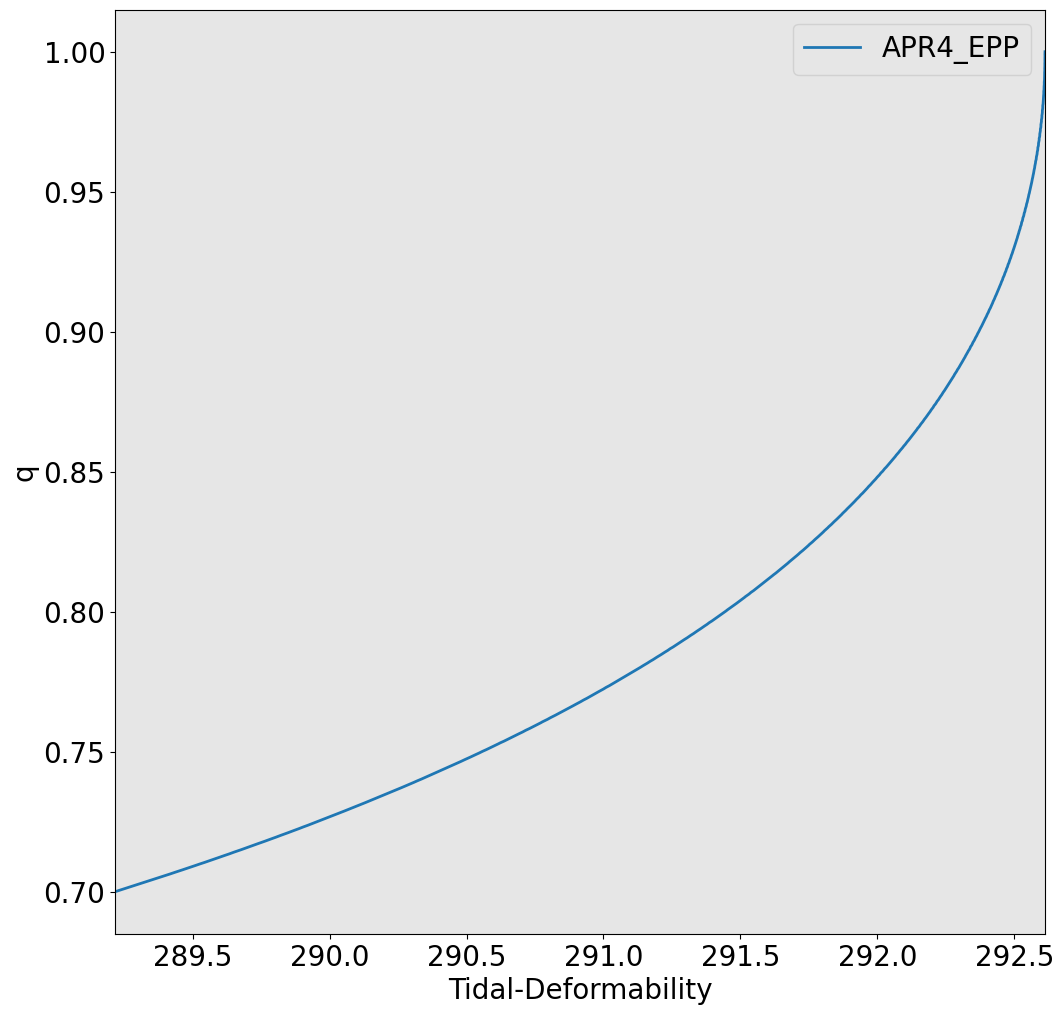
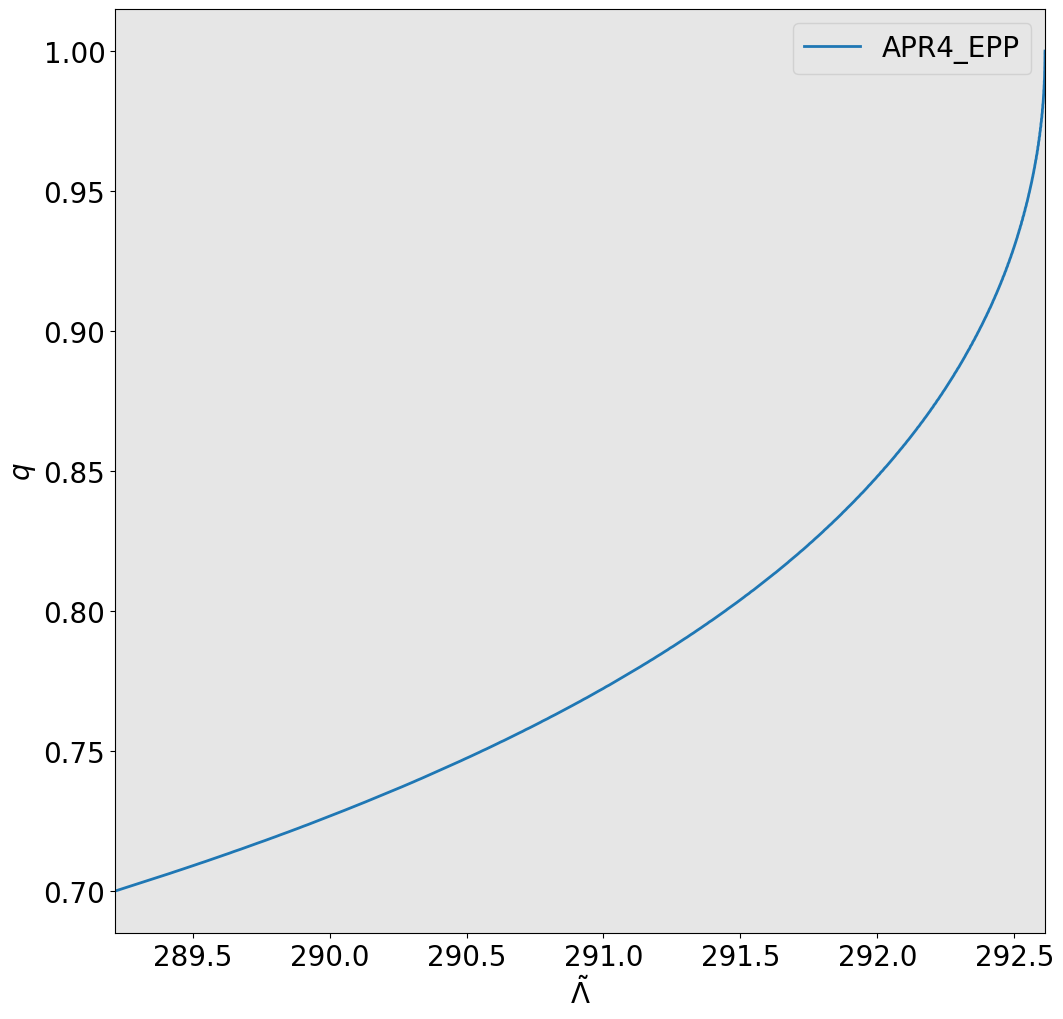
Astronomy Club 2023 plots13

diff --git a/joint_inference/development/Spring2023Presentations.py b/joint_inference/development/Spring2023Presentations.py
@@ -142,8 +142,8 @@ def namedEoS_lines(EoS_Name):
     pl.plot(LambdaT, q, label=EoS_Name)
 
     pl.xlim([min(LambdaT),max(LambdaT)])
-    pl.xlabel("Tidal-Deformability")
-    pl.ylabel("q")
+    pl.xlabel("$\\tilde{\\Lambda}$")
+    pl.ylabel("$q$")
     pl.legend()
     pl.savefig("plots/AstroClub2023/"+EoS_Name+"_q_Lt.png", bbox_inches='tight')
 
